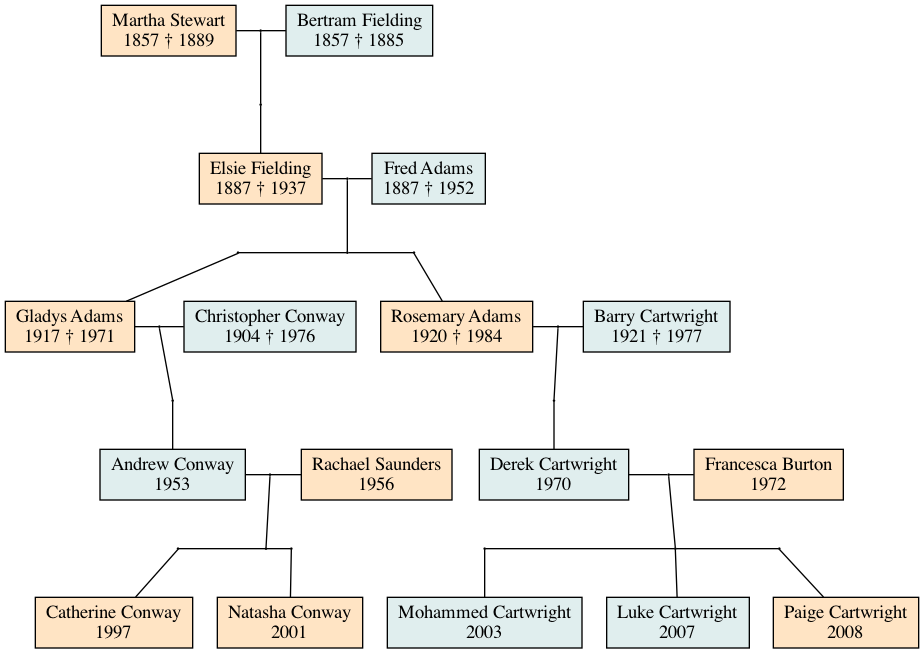
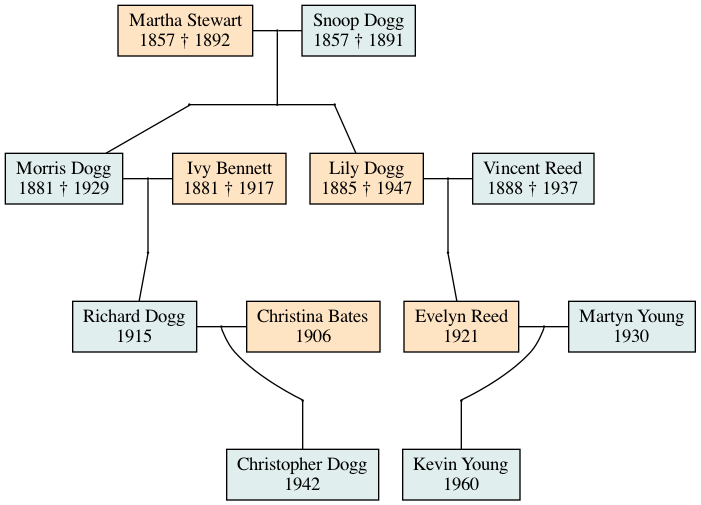
final

diff --git a/src/generations.py b/src/generations.py
@@ -61,8 +61,6 @@ class FamilyTree(object):
     def r_last_name(self):
         '''
         returns a randomized surname from the source file of british surnames
-        INPUTS:
-            None
         OUTPUTS:
             last_name (str): a string representnation of a last name, properly formatted
         '''
@@ -77,8 +75,6 @@ class FamilyTree(object):
                 "marriage" or "birth"
             relations (list): a list of node identifiers of the parent or spouse
                 of the node to be added
-        OUTPUTS:
-            None
         '''
         if relationship == "marriage":
             new_age = 16 + random.choice(range(20))
@@ -170,8 +166,6 @@ class FamilyTree(object):
         statistics for estimating this parameter, so arbitrarily decided that a given couple
         should have a 1/10 chance of conceiving in any given year. while this might seem unrealistically
         low, it makes the tree sparser and easier to parse.
-        INPUTS:
-            None
         OUTPUTS:
             Birth (bool): True if a child is conceived, False if not
         '''
@@ -188,11 +182,6 @@ class FamilyTree(object):
         function to insert an appropriate node into the tree. the self.temp_tree object 
         is used as a dummy variable, as networkx graph datastructure uses dictionaries, 
         which cannot be modified mid-iteration.
-        INPUTS:
-            None
-        OUTPUTS:
-            None
-
         '''
         people = list(self.tree.nodes)
         alive = nx.get_node_attributes(self.tree, "alive")
@@ -289,19 +278,10 @@ class FamilyTree(object):
         while i <= self.num_years:
             self.one_year()
             i+=1
-        '''
-        for i in self.tree.nodes:
-            print(self.tree.nodes[i])
 
-        for i in self.tree.edges:
-            print(i)
-            print(self.tree.edges[i])
-        '''
         root_firstname = nx.get_node_attributes(self.tree, 'first_name')[0]
         root_lastname = nx.get_node_attributes(self.tree, 'last_name')[0]
 
         self.output_file()
         os.system(f"./familytreemaker.py -a '{root_firstname} {root_lastname}' family_tree.txt | dot -Tpng -o family_tree.png")
 
-
-        print(self.tree.nodes)

diff --git a/README.md b/README.md
@@ -20,25 +20,26 @@ mother: [<first name>, <last name>, <age at start_year>, <birth date>]
 and the text representation looks like:
 
 ```
-Martha Stewart (id=0, F, birthday=1857, deathday=1897) 
-Bertram Fielding (id=1, M, birthday=1857, deathday=1896) 
-	Eileen Fielding (id=2, F, birthday=1882, deathday=1920) 
-	Mark Fielding (id=3, M, birthday=1895, deathday=1937) 
+Martha Stewart (id=0, F, birthday=1857, deathday=1892) 
+Snoop Dogg (id=1, M, birthday=1857, deathday=1891) 
+	Morris Dogg (id=2, M, birthday=1881, deathday=1929) 
+	Lily Dogg (id=3, F, birthday=1885, deathday=1947) 
 
-Eileen Fielding (id=2, F, birthday=1882, deathday=1920) 
-Alfred Hogg (id=4, M, birthday=1882, deathday=1932) 
-	Christopher Hogg (id=5, M, birthday=1910, deathday=1968) 
+Lily Dogg (id=3, F, birthday=1885, deathday=1947) 
+Vincent Reed (id=5, M, birthday=1888, deathday=1937) 
+	Evelyn Reed (id=7, F, birthday=1921) 
 
-Dorothy Vaughan (id=6, F, birthday=1890, deathday=1949) 
-Mark Fielding (id=3, M, birthday=1895, deathday=1937) 
+Ivy Bennett (id=4, F, birthday=1881, deathday=1917) 
+Morris Dogg (id=2, M, birthday=1881, deathday=1929) 
+	Richard Dogg (id=6, M, birthday=1915) 
 
-Sheila Forbes (id=7, F, birthday=1918, deathday=1985) 
-Christopher Hogg (id=5, M, birthday=1910, deathday=1968) 
-	Sarah Hogg (id=8, F, birthday=1964, deathday=2010) 
+Evelyn Reed (id=7, F, birthday=1921) 
+Martyn Young (id=10, M, birthday=1930) 
+	Kevin Young (id=11, M, birthday=1960) 
 
-Sarah Hogg (id=8, F, birthday=1964, deathday=2010) 
-Connor Bradshaw (id=9, M, birthday=1967, deathday=2010) 
-	Benjamin Bradshaw (id=10, M, birthday=1995, deathday=2010) 
+Christina Bates (id=8, F, birthday=1906) 
+Richard Dogg (id=6, M, birthday=1915) 
+	Christopher Dogg (id=9, M, birthday=1942) 
 ```
 
 Each married couple is represented as a pair, with their children indented below.
